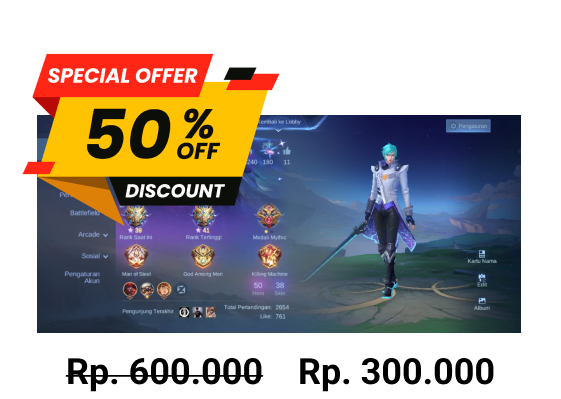
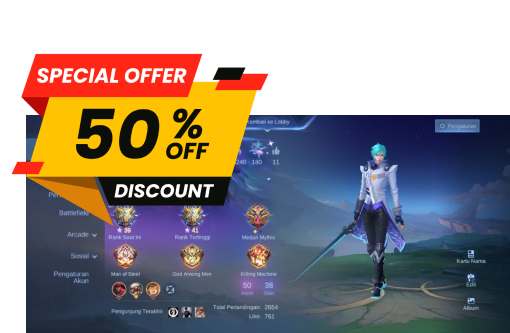
#

diff --git a/style.css b/style.css
@@ -73,7 +73,7 @@ nav ul li a {
 }
 
 .bestPromo {
-  margin: 100px;
+  margin: 100px 100px 0 50px;
   align-items: center;
   justify-content: center;
 }
